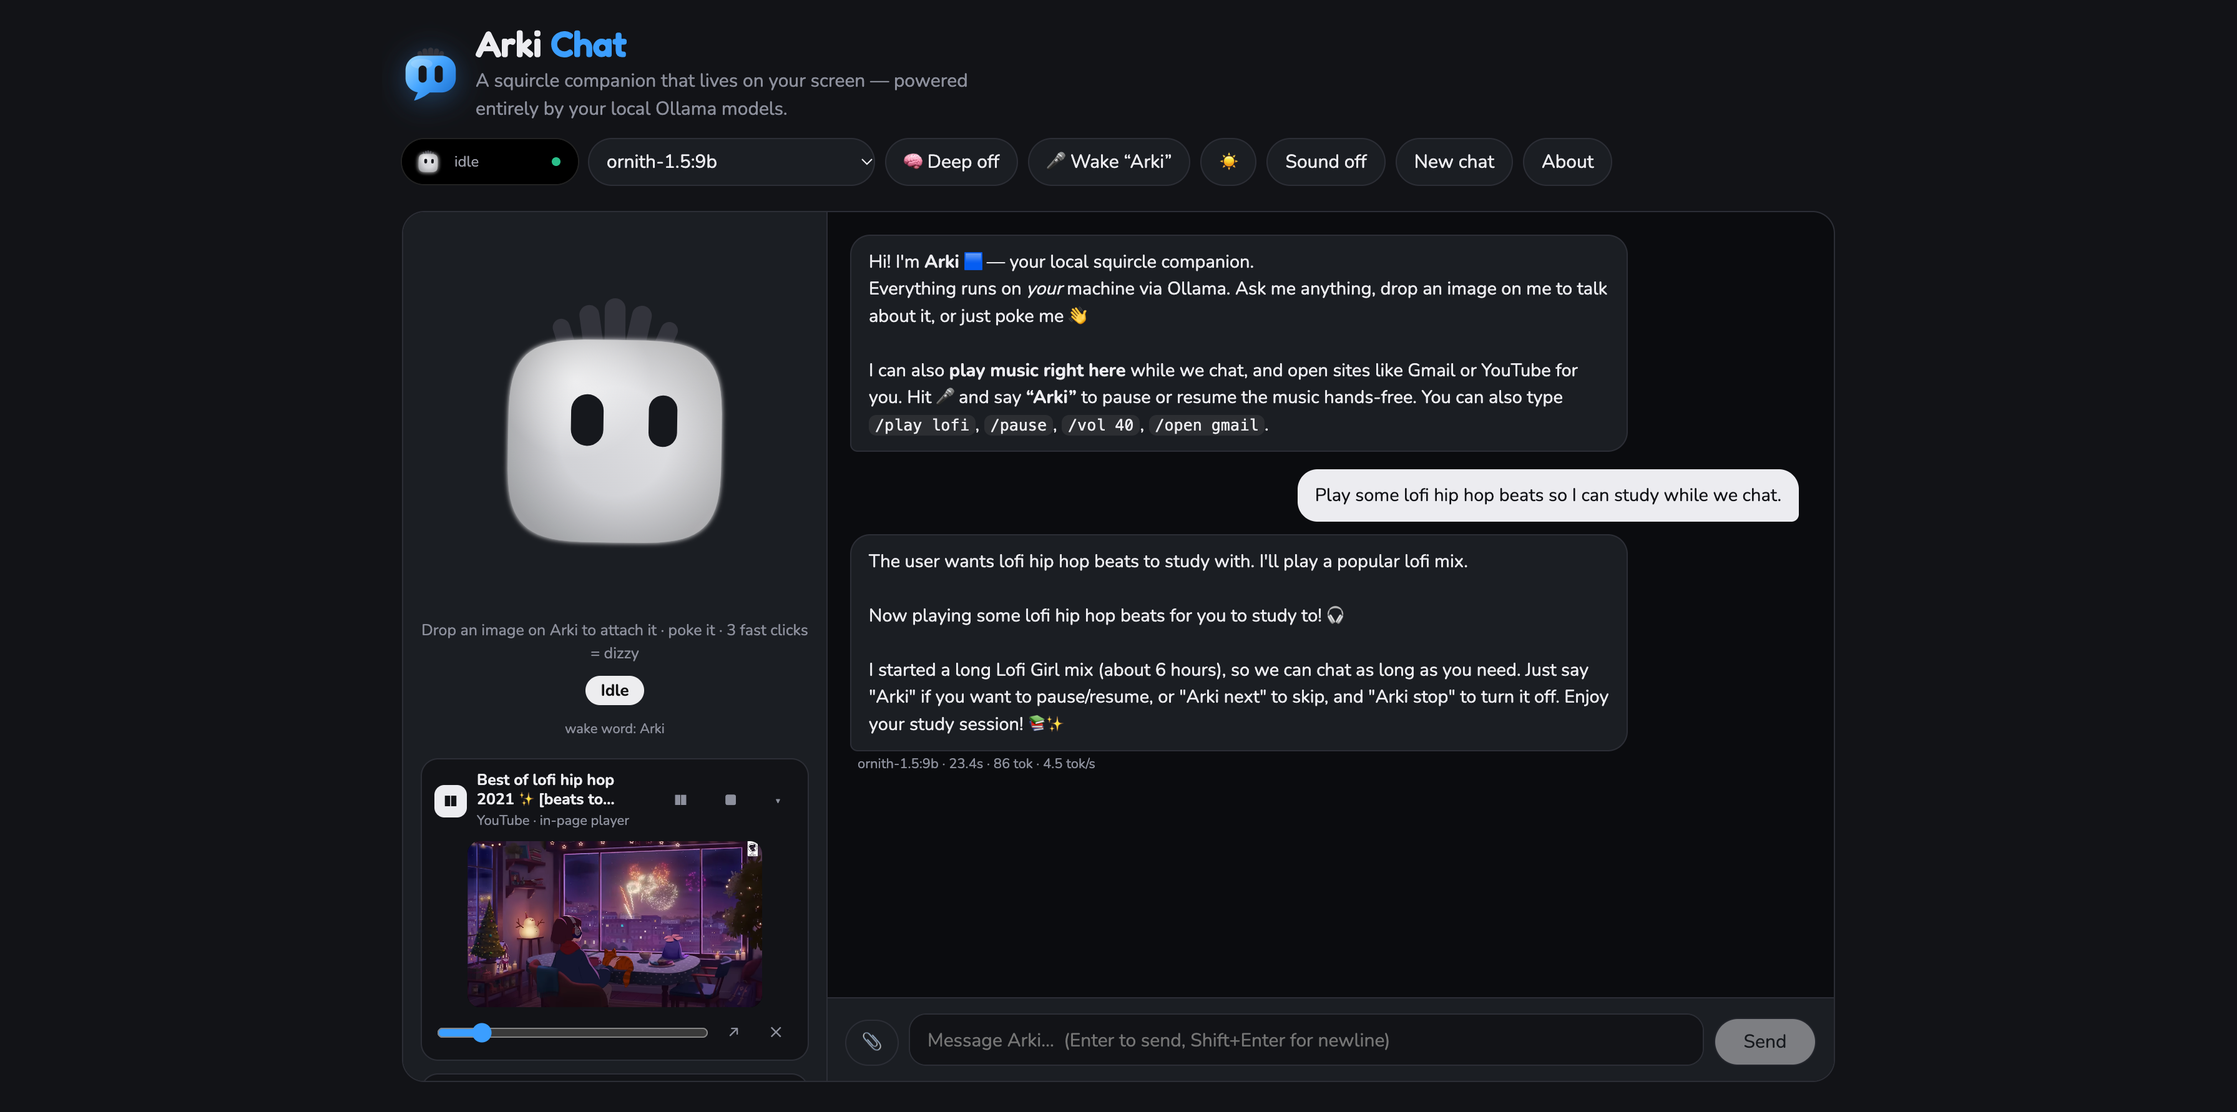
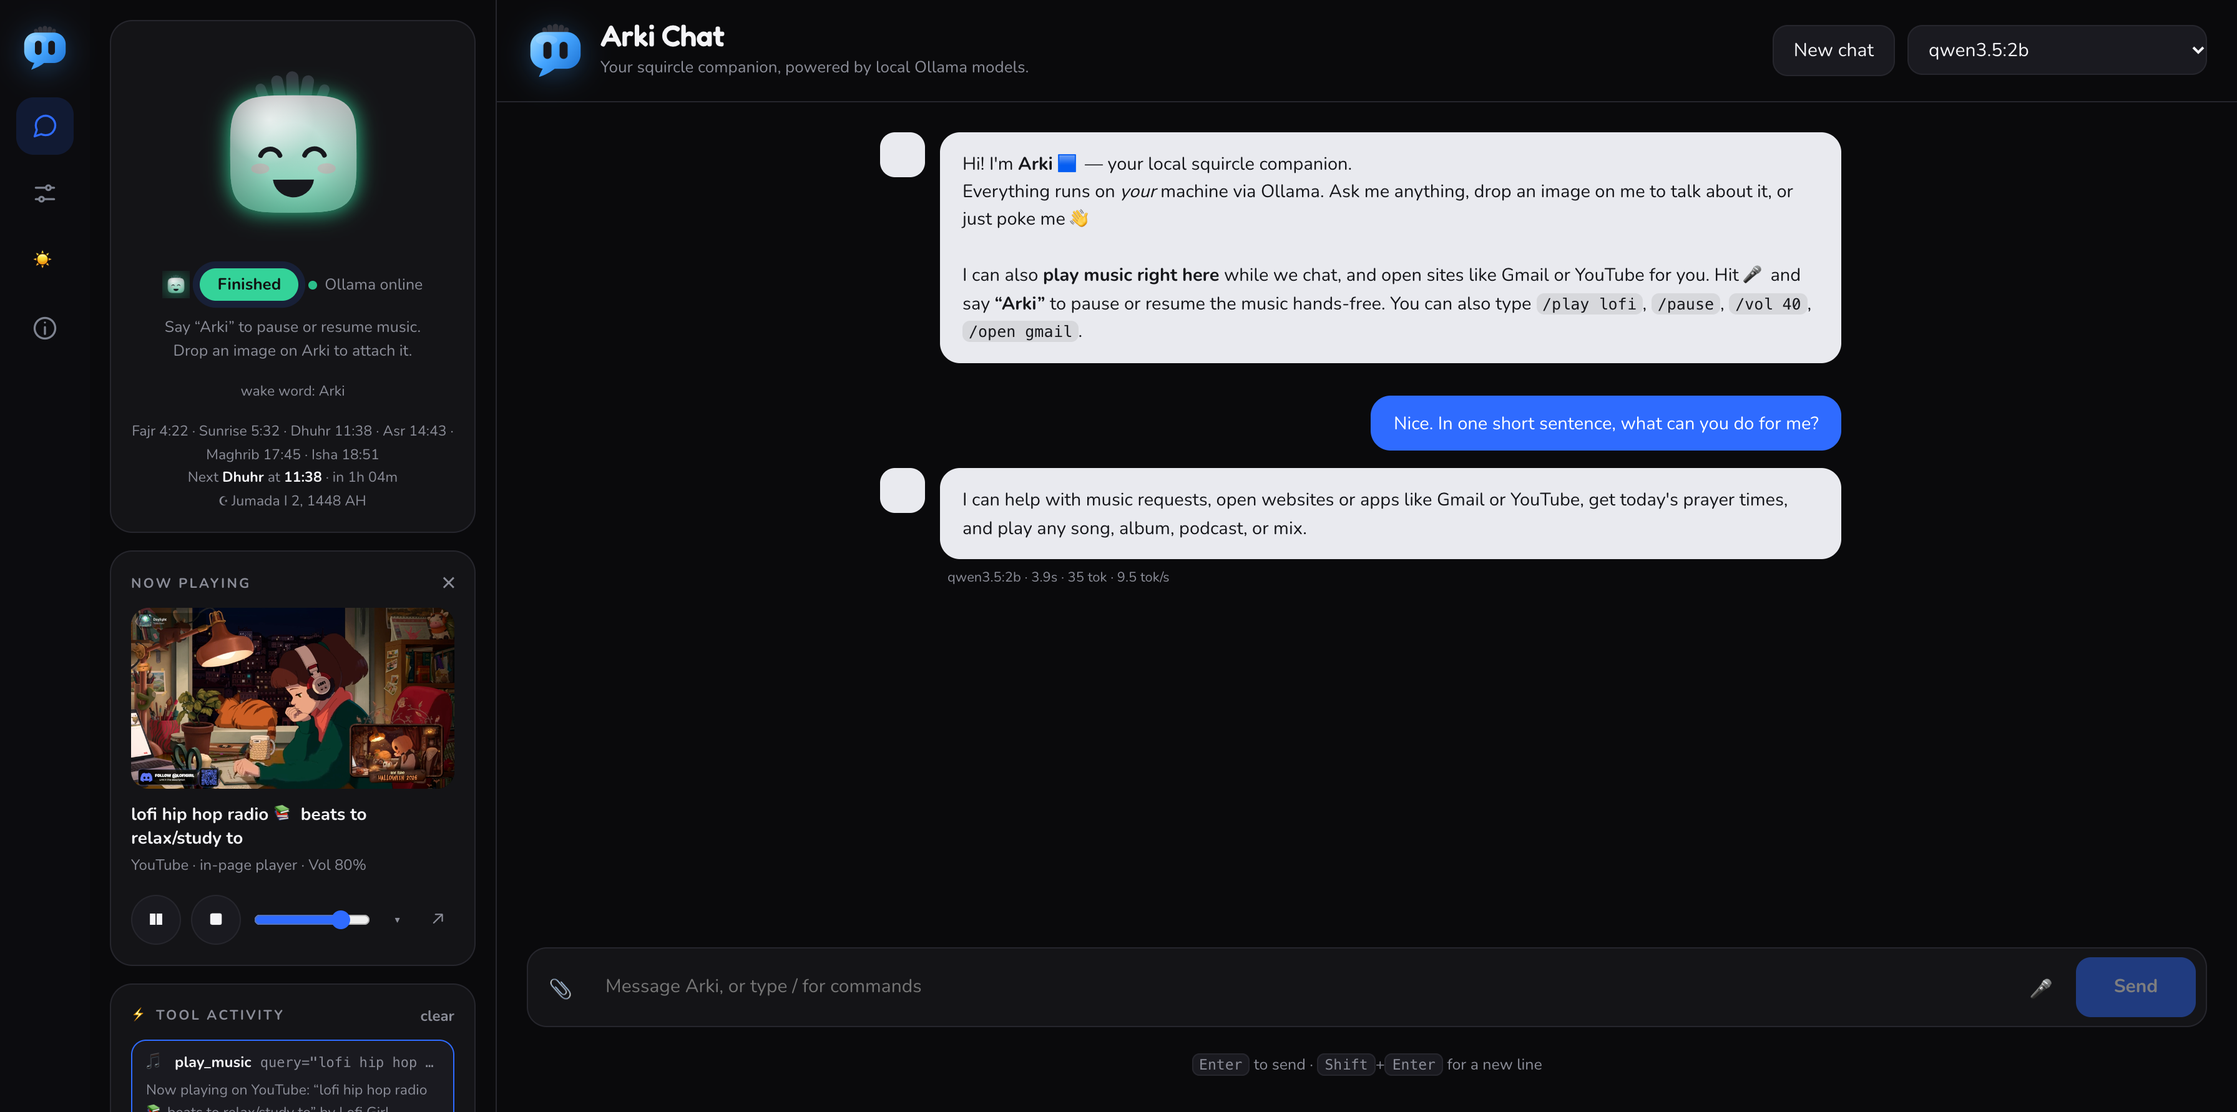
change layout, etc

diff --git a/index.html b/index.html
@@ -260,6 +260,9 @@ button.mini.wake{padding:2px 8px;font-size:11.5px}
 }
 @media(max-width:560px){
  .topbar{padding:12px 14px}.topbar h1{font-size:21px}.sub{display:none}
+ .composer{gap:4px}.composer textarea{font-size:15px;padding:9px 6px}
+ #attachBtn,#mic{width:34px;height:34px;font-size:16px}
+ #send{min-width:74px;padding:10px 14px;font-size:15px}
  .controlpanel,.attach{padding-left:14px;padding-right:14px}
  .composerwrap{padding:8px 14px 14px}
  #model{max-width:150px}
@@ -1143,6 +1146,10 @@ async function send(){
 }
 function stop(){if(ctrl)ctrl.abort();}
 function autoGrow(){input.style.height='auto';input.style.height=Math.min(input.scrollHeight,140)+'px';}
+// the full hint wraps to three lines on a phone, so narrow screens get the short one
+const narrow=matchMedia('(max-width:560px)');
+function placeholderForWidth(){input.placeholder=narrow.matches?'Message Arki, or type /':'Message Arki, or type / for commands';}
+narrow.addEventListener('change',placeholderForWidth);placeholderForWidth();
 input.addEventListener('input',()=>{autoGrow();refreshComposer();});
 input.addEventListener('keydown',e=>{if(e.key==='Enter'&&!e.shiftKey){e.preventDefault();send();}});
 sendBtn.addEventListener('click',()=>{generating?stop():send();});

diff --git a/README.md b/README.md
@@ -163,19 +163,22 @@ Halaman web tidak pernah bisa menjalankan program desktop — itu batasan semua 
 
 ## Memutar musik di halaman
 
-Pemutar berada di **sidebar**, tepat di bawah avatar, sehingga musik tidak pernah mengganggu kolom percakapan.
+Pemutar berada di **sidebar**, tepat di bawah kartu Arki, sehingga musik tidak pernah mengganggu kolom percakapan.
 
 ```text
-❚❚ ■ ▾   4K Cozy Coffee Shop with Smooth Piano Jazz Music for Relaxing…
-         YouTube · pemutar dalam halaman
-         ┌────────────────┐
-         │   video 16:9   │
-         └────────────────┘
-         ────────●────  ↗  ✕
+┌ NOW PLAYING ────────────────────── ✕ ┐
+│  ┌────────────────────────────────┐  │
+│  │           video 16:9           │  │
+│  └────────────────────────────────┘  │
+│  lofi hip hop radio 📚 beats to …    │
+│  YouTube · pemutar dalam halaman     │
+│  · Vol 80%                           │
+│  ❚❚   ■   ────────●────   ▾   ↗      │
+└──────────────────────────────────────┘
 ```
 
-* ❚❚ / ▶ menjeda dan melanjutkan · ■ berhenti · ▾ menyembunyikan video tetapi **tetap memutar audio** (diingat antar-sesi) · slider volume · ↗ membuka sumber di tab · ✕ menutup
-* Sidebar terdiri dari dua sel yang dapat di-scroll secara independen: Arki tetap pada ukuran penuh 290px dan pemutar melakukan scroll di bawahnya, sehingga memulai track tidak akan pernah mendorong Arki keluar dari frame.
+* ❚❚ / ▶ menjeda dan melanjutkan · ■ berhenti · slider volume · ▾ menyembunyikan video tetapi **tetap memutar audio** (diingat antar-sesi) · ↗ membuka sumber di tab · ✕ menutup
+* Sidebar adalah **satu kolom kartu yang dapat di-scroll**: kartu Arki paling atas, lalu **Now playing**, **⚡ Tool activity**, **🕌 Prayer settings**, dan **Activity**. Kartu Now playing muncul di bawah Arki saat track pertama dimulai, sehingga menyalakan musik tidak pernah menggeser Arki keluar frame — hanya kartu-kartu di bawahnya yang bergerak.
 * Avatar mendapatkan cahaya violet *Playing* setiap kali sebuah track dimulai.
 
 **Dari mana audio berasal**
@@ -199,7 +202,7 @@ Lima waktu salat harian dan matahari terbit, dihitung untuk lokasimu dan ditampi
       ☪ Jumada I 1, 1448 H
 ```
 
-Baris itu berada di kolom avatar sehingga tidak pernah mengambil ruang percakapan; panel **🕌 Prayer settings** di sidebar menyimpan metode, lokasi, dan nada adzannya.
+Baris itu berada di dalam kartu Arki sehingga tidak pernah mengambil ruang percakapan; kartu **🕌 Prayer settings** di sidebar menyimpan metode, lokasi, dan nada adzannya.
 
 **Ia menanyakan lokasimu sekali saja.** Pada pemakaian pertama panel meminta izin lokasi ke browser (satu prompt, yang kemudian diingat browser). Jika ditolak, panel menawarkan **Enter a city** — ketik nama kota dan kota itu dicari melalui [Open-Meteo geocoding API](https://open-meteo.com/en/docs/geocoding-api), atau tempelkan `lat,lng` langsung untuk melewati jaringan sepenuhnya. Lokasinya disimpan secara lokal; pencarian hanya terjadi sekali dan tidak pernah diulang.
 
@@ -225,7 +228,7 @@ Klik **🎤 Wake “Arki”** untuk mulai mendengarkan (Chrome atau Safari, dan 
 
 Saat mendengarkan, Arki berubah menjadi cyan dengan status *Listening* dan menampilkan transkrip secara langsung sehingga kamu dapat melihat apa yang didengarnya. Klik `wake word: Arki` di bawah avatar untuk mengganti kata pemicu — bisa dengan kata apa pun, yang dicocokkan sebagai satu kata utuh.
 
-Pengenalan suara menggunakan Web Speech API yang **disediakan oleh browser** (di Chrome, audio dikirim ke Google untuk transkripsi) dan hanya tersedia di Chromium dan Safari. Firefox dan browser lainnya akan mendapatkan pesan yang jelas di event log dan tombol akan otomatis dinonaktifkan. Slash command di bawah menyediakan fungsi yang sama tanpa mikrofon.
+Pengenalan suara menggunakan Web Speech API yang **disediakan oleh browser** (di Chrome, audio dikirim ke Google untuk transkripsi) dan hanya tersedia di Chromium dan Safari. Firefox dan browser lainnya akan mendapatkan pesan yang jelas di kartu Activity dan tombol akan otomatis dinonaktifkan. Slash command di bawah menyediakan fungsi yang sama tanpa mikrofon.
 
 ---
 
@@ -256,7 +259,8 @@ Perintah ini melewati model sepenuhnya dan langsung menjalankan tool — berguna
 * **🕌 Waktu salat** untuk lokasimu, aktif secara default dan bisa dimatikan — teks berjalan di bawah avatar dengan hitung mundur salat berikutnya, tanggal Hijriah, dan nada adzan opsional. Lihat [Waktu salat](#waktu-salat).
 * **🎭 Karakter sungguhan** — napas saat idle, kedipan (tunggal, ganda, dan mengantuk yang lambat), mata pada bola yang mengikuti kursor, tiga belas emote, sapaan ketika pertama kali dibuka, dan **28 suara buatan sendiri**. Lihat [Avatar](#avatar) dan [Suara](#suara).
 * **Tema terang/gelap**, disimpan dan secara default mengikuti preferensi OS.
-* **Event log** di rail tersendiri setinggi penuh di sisi paling kiri — setiap request, pemanggilan tool, wake word, dan error dengan timestamp, plus tombol **clear**.
+* **Rail navigasi** di tepi kiri — logo Arki (tautan kembali ke chat), **Chat**, **Controls** (membuka baris 🧠 Deep / Sound / 🕌 Prayer times), tombol tema, dan **About**. Membuka Controls tidak pernah mengatur ulang percakapan.
+* **Activity** sebagai kartu di sidebar — setiap request, pemanggilan tool, wake word, dan error dengan timestamp, plus tombol **clear**. Daftarnya bergulir di dalam kartunya sendiri, jadi sepanjang apa pun isinya tidak pernah mengambil ruang percakapan.
 * Bunyi retro opsional saat terjadi perubahan status.
 
 ---
@@ -318,23 +322,22 @@ Untuk menghentikan jawaban di tengah streaming, klik **■ Stop** (tombol Send b
 
 Arki telah diverifikasi dari ukuran **320×568 hingga 2560×1440**, termasuk tablet dalam orientasi portrait, laptop dengan browser chrome terbuka, dan ponsel dalam orientasi landscape.
 
-| Lebar     | Layout                                                                   |
-| --------- | ------------------------------------------------------------------------ |
-| ≥ 981px   | sidebar + percakapan berdampingan                                        |
-| 821–980px | sama, tetapi sidebar lebih sempit dan Arki lebih kecil                   |
-| ≤ 820px   | satu kolom — identity bar, percakapan, panel, lalu event log             |
-| ≤ 560px   | mark dan avatar lebih kecil, nama model dipangkas                        |
-| ≤ 400px   | kontrol dibuat ringkas di seluruh aplikasi                               |
+| Lebar        | Layout                                                                    |
+| ------------ | ------------------------------------------------------------------------- |
+| ≥ 1181px     | rail ikon 72px + sidebar 326px + percakapan, berdampingan                 |
+| 1025–1180px  | sidebar 296px                                                             |
+| 861–1024px   | sidebar 270px dan Arki 150px                                              |
+| ≤ 860px      | rail ikon menjadi baris horizontal di atas — satu kolom, percakapan dulu, lalu kartu-kartu sidebar |
+| ≤ 560px      | header lebih kecil, tagline disembunyikan, Arki 120px, composer dipadatkan |
 
 Tinggi layar ditangani secara terpisah karena jendela yang lebar tetapi pendek merupakan masalah yang berbeda:
 
-| Tinggi              | Layout                                                                                   |
-| ------------------- | ---------------------------------------------------------------------------------------- |
-| ≤ 720px (desktop)   | Arki lebih kecil, caption disembunyikan                                                  |
-| ≤ 560px + landscape | dua kolom seperti ponsel dengan rail 168px, header mini, tagline dan notch disembunyikan |
-| ponsel (stacked)    | composer tetap menempel di bagian bawah viewport                                         |
+| Tinggi           | Layout                                                |
+| ---------------- | ----------------------------------------------------- |
+| ≤ 720px (≥ 861px) | Arki 140px                                           |
+| ponsel (stacked)  | composer tetap menempel di bagian bawah viewport      |
 
-Chat mengisi ruang yang tersedia, bukan memperbesar diri mengikuti jumlah pesan, sehingga composer tidak pernah terdorong keluar layar. Event log berjalan sebagai rail tersendiri setinggi penuh di sisi paling kiri, sehingga sepanjang apa pun daftar aktivitasnya hanya ia sendiri yang melakukan scroll; sidebar di sebelahnya memiliki dua sel yang dapat di-scroll secara independen — blok identitas Arki mempertahankan ukuran penuh, sementara player dan kartu tool melakukan scroll di bawahnya. Dengan demikian, membuka sebuah track tidak akan pernah mendorong Arki keluar dari frame.
+Chat mengisi ruang yang tersedia, bukan memperbesar diri mengikuti jumlah pesan, sehingga composer tidak pernah terdorong keluar layar. Rail ikon tidak pernah bergulir, sidebar bergulir sebagai satu kolom kartu, dan daftar aktivitas bergulir di dalam kartunya sendiri — sehingga sepanjang apa pun riwayatnya, ia tidak pernah mengambil ruang percakapan.
 
 Semuanya menggunakan `dvh` dengan fallback `vh`, dan composer memberikan padding untuk home indicator iPhone.
 
@@ -438,7 +441,7 @@ Percakapan itu sendiri **tidak disimpan secara permanen**. Tidak ada apa pun yan
 
 `logo.svg` adalah keseluruhan identitas visual: speech bubble biru berbentuk squircle yang membawa dua mata berbentuk pill milik Arki dan poni kecilnya — squircle *adalah* Arki, bubble *adalah* chat. Hanya menggunakan beberapa bentuk dan satu gradient, tanpa font dan tanpa dependensi, sehingga aman untuk di-inline, diberi warna ulang, atau diperbesar maupun diperkecil ke ukuran apa pun. Tetap mudah dibaca hingga ukuran 16px.
 
-Di dalam aplikasi, logo muncul sebagai lockup 46px di samping wordmark, berkedip sekali setiap 7,5 detik, dan juga berfungsi sebagai favicon.
+Di dalam aplikasi, logo muncul dua kali: sebagai ubin 38px di puncak rail navigasi (tautan kembali ke chat) dan sebagai lockup 46px di samping wordmark pada header percakapan, yang berkedip sekali setiap 7,5 detik. `logo.svg` juga berfungsi sebagai favicon.
 
 ---
 

diff --git a/README.en.md b/README.en.md
@@ -209,22 +209,26 @@ name is "LibreOffice". Everything else works without an entry.
 
 ## Playing music in the page
 
-The player lives in the **sidebar**, under the avatar, so music never interrupts the
+The player lives in the **sidebar**, in a card just under Arki, so music never interrupts the
 conversation column.
 
 ```
-❚❚ ■ ▾   4K Cozy Coffee Shop with Smooth Piano Jazz Music for Relaxing…
-         YouTube · in-page player
-         ┌────────────────┐
-         │   video 16:9   │
-         └────────────────┘
-         ────────●────  ↗  ✕
+┌ NOW PLAYING ────────────────────── ✕ ┐
+│  ┌────────────────────────────────┐  │
+│  │           video 16:9           │  │
+│  └────────────────────────────────┘  │
+│  lofi hip hop radio 📚 beats to …    │
+│  YouTube · in-page player · Vol 80%  │
+│  ❚❚   ■   ────────●────   ▾   ↗      │
+└──────────────────────────────────────┘
 ```
 
-- ❚❚ / ▶ pause and resume · ■ stop · ▾ hide the video but **keep the audio playing**
-  (remembered across sessions) · volume slider · ↗ open the source in a tab · ✕ close
-- The sidebar is two independently scrolling cells: Arki stays at its full 290px and the player
-  scrolls beneath it, so starting a track can never shove Arki out of frame
+- ❚❚ / ▶ pause and resume · ■ stop · volume slider · ▾ hide the video but **keep the audio
+  playing** (remembered across sessions) · ↗ open the source in a tab · ✕ close
+- The sidebar is **one scrolling column of cards**: Arki on top, then **Now playing**,
+  **⚡ Tool activity**, **🕌 Prayer settings** and **Activity** below it. The Now playing card
+  appears under Arki when the first track starts, so playing music never pushes Arki out of
+  frame — only the cards beneath it move
 - The avatar picks up a violet *Playing* glow each time a track starts
 
 **Where the audio comes from**
@@ -260,8 +264,8 @@ Controls (or the small *off* in the settings panel) turns it off, and that choic
       ☪ Jumada I 1, 1448 AH
 ```
 
-The line lives in the avatar column, so it never takes space from the conversation; the
-**🕌 Prayer settings** panel in the sidebar holds the method, the location and the chime.
+The line lives inside Arki's card, so it never takes space from the conversation; the
+**🕌 Prayer settings** card in the sidebar holds the method, the location and the chime.
 
 **It asks where you are, once.** On the first run the panel asks the browser for your location
 (a single permission prompt, which the browser remembers afterwards). Deny it and the panel
@@ -307,7 +311,7 @@ you like, matched as a whole word.
 
 Recognition uses the Web Speech API, which is **browser-provided** (in Chrome it sends audio to
 Google for transcription) and only exists in Chromium and Safari. Firefox and friends get a
-clear message in the event log and the button turns itself off. The slash commands below do the
+clear message in the Activity card and the button turns itself off. The slash commands below do the
 same jobs without a microphone.
 
 ---
@@ -350,8 +354,12 @@ browsers without speech support, and for when you just want the thing to stop.
   a sphere that follow your cursor, thirteen emotes, a greeting on launch and **28 handcrafted
   sounds**. See [The avatar](#the-avatar) and [Sounds](#sounds).
 - **Light/dark theme**, remembered, defaulting to your OS preference.
-- **Event log** in its own full-height rail down the left edge — every request, tool call,
-  wake word and error with timestamps, and a **clear** button.
+- **Navigation rail** down the left edge — the Arki logo (a link back to the chat), **Chat**,
+  **Controls** (opens the 🧠 Deep / Sound / 🕌 Prayer times row), the theme toggle and **About**.
+  Opening Controls never resets a conversation.
+- **Activity** as a sidebar card — every request, tool call, wake word and error with timestamps,
+  and a **clear** button. It scrolls inside its own card, so however long it gets it never
+  takes space away from the conversation.
 - Optional retro beeps on state changes.
 
 ---
@@ -439,25 +447,23 @@ browser chrome open, and phones in landscape.
 
 | Width | Layout |
 |---|---|
-| ≥ 981px | sidebar + conversation side by side |
-| 821–980px | same, tighter sidebar and smaller Arki |
-| ≤ 820px | single column — identity bar, conversation, panels, then the event log |
-| ≤ 560px | smaller mark and avatar, model name trimmed |
-| ≤ 400px | compact controls throughout |
+| ≥ 1181px | 72px icon rail + 326px sidebar + conversation, side by side |
+| 1025–1180px | 296px sidebar |
+| 861–1024px | 270px sidebar and a 150px Arki |
+| ≤ 860px | the icon rail becomes a horizontal row on top — one column, conversation first, then the sidebar cards |
+| ≤ 560px | smaller header, tagline hidden, 120px Arki, compact composer |
 
 Height is handled separately, because a wide-but-short window is a different problem:
 
 | Height | Layout |
 |---|---|
-| ≤ 720px (desktop) | smaller Arki, caption hidden |
-| ≤ 560px + landscape | phone-like two columns with a 168px rail, mini header, tagline and notch hidden |
+| ≤ 720px (≥ 861px) | a 140px Arki |
 | phones (stacked) | the composer is sticky to the bottom of the viewport |
 
 The chat fills whatever height is left rather than growing to fit the messages, so it never
-pushes the composer off-screen. The event log runs down the far left as its own full-height
-rail, so however long the activity list gets it only ever scrolls itself, and the sidebar beside
-it is two independently scrolling cells — Arki's identity block keeps its full size, and the
-player and tool cards scroll beneath it, so opening a track can never shove Arki out of frame.
+pushes the composer off-screen. The icon rail never scrolls, the sidebar scrolls as one column
+of cards, and the activity list scrolls inside its own card — so however long the history gets,
+it never takes space away from the conversation.
 
 Everything uses `dvh` with a `vh` fallback, and the composer pads for the iPhone home indicator.
 
@@ -587,8 +593,9 @@ and its little fringe — the squircle *is* Arki, the bubble *is* chat. It's a h
 and one gradient, no fonts and no dependencies, so it's safe to inline, recolour or scale to any
 size. It stays legible down to 16px.
 
-In the app it appears as a 46px lockup beside the wordmark, blinks once every 7.5 seconds, and
-doubles as the favicon.
+In the app it appears twice: as a 38px tile at the top of the navigation rail (a link back to the
+chat) and as a 46px lockup beside the wordmark in the conversation header, blinking once every
+7.5 seconds. `logo.svg` doubles as the favicon.
 
 ---
 
